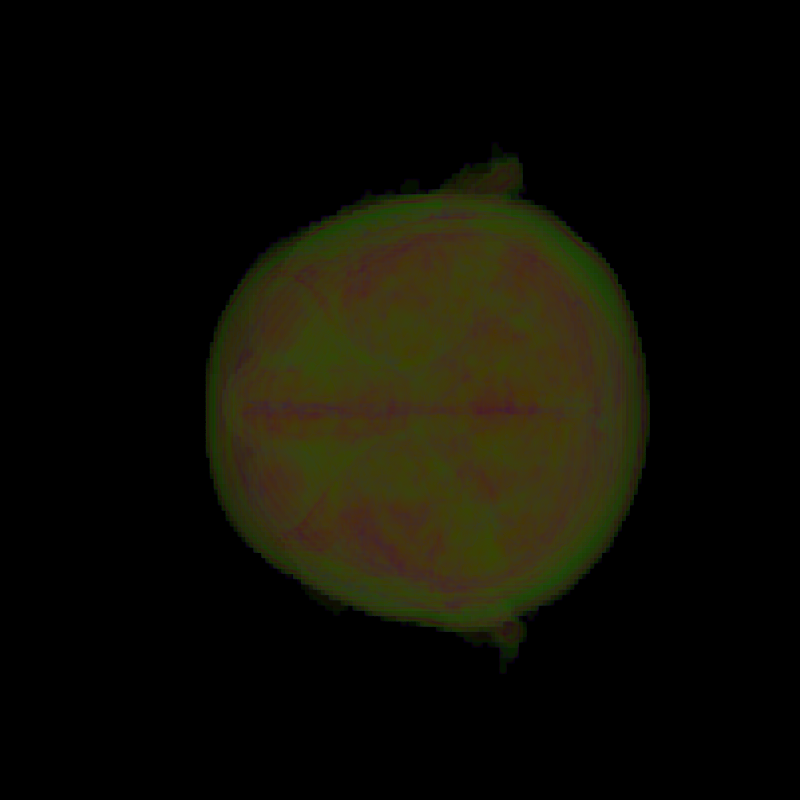
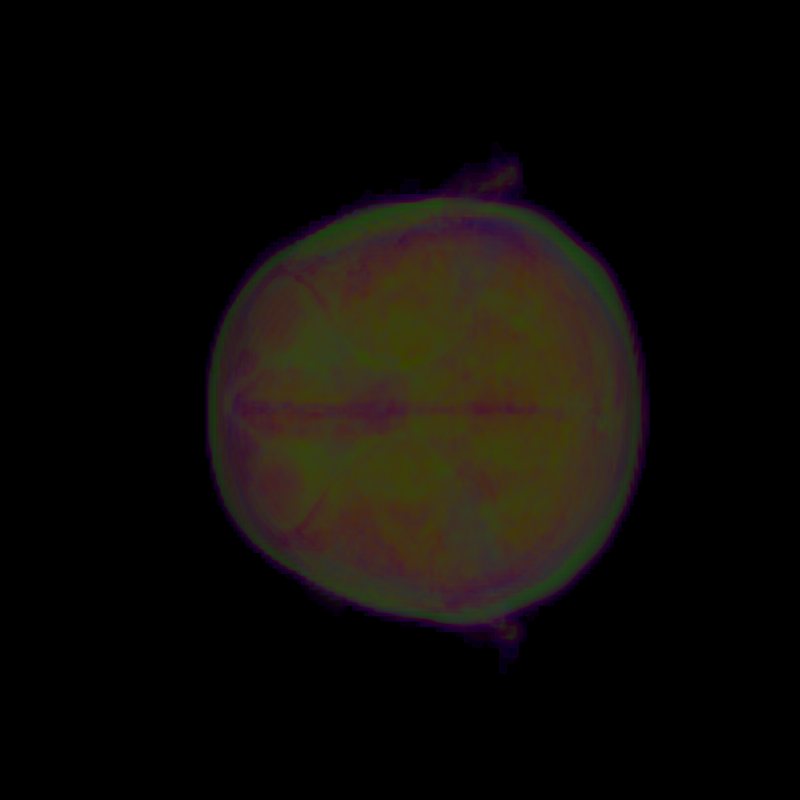
Volume: write color map

diff --git a/pov.m b/pov.m
@@ -385,7 +385,7 @@ classdef pov < handle
             end
 
             % Write
-            [npoints, psize] = size(points);
+            [npoints, ~] = size(points);
             fprintf(o.fh, 'lathe { %s %d,\n', spline_type, npoints);
 
             for i=1:npoints
@@ -573,7 +573,7 @@ classdef pov < handle
             o.union_end();
         end
 
-        % Volume via ext3
+        % Volume via df3
         function volume(o, varargin)
             % Parse
             p = inputParser;
@@ -589,6 +589,7 @@ classdef pov < handle
             addParameter(p,'variance',     0.001,         @o.density_file);
             addParameter(p,'density_file', 'volume',      @o.check_string);
             addParameter(p,'interpolate',  1,             @o.check_positive_int);
+            addParameter(p,'color_map',    [1 1 1 1]                           ); % TODO: Check dimensions
             addParameter(p,'scale',        [1 1 1],       @o.check_vector3);
             addParameter(p,'rotate',       [0 0 0],       @o.check_vector3);
             addParameter(p,'translate',    [0 0 0],       @o.check_vector3);
@@ -606,13 +607,14 @@ classdef pov < handle
             variance     = p.Results.variance;
             density_file = p.Results.density_file;
             interpolate  = p.Results.interpolate;
+            color_map    = p.Results.color_map;
             scale        = p.Results.scale;
             rotate       = p.Results.rotate;
             translate    = p.Results.translate;
 
             % Write density file if we have data
             if(~isnan(data))
-                [sx sy sz] = size(data);                
+                [sx,sy,sz] = size(data);
                 fhd = fopen(o.out_dir + "/" + density_file + ".df3", 'w');
                 fwrite(fhd, sx,   'uint16', 'ieee-be');
                 fwrite(fhd, sy,   'uint16', 'ieee-be');
@@ -635,28 +637,26 @@ classdef pov < handle
                           '        variance %0.3f\n'...
                           '            density {\n'...
     	                  '                density_file df3 "%s.df3"\n'...
-                          '                interpolate %d\n'...
-			              '                color_map {\n'...
-   			              '                    [0.00 rgb <0,0,0>]\n'...
-   			              '                    [0.0001 rgb <0,0,1>]\n'...
-   			              '                    [0.003 rgb <1,0,0>]\n'...
-   			              '                    [0.005 rgb <0,1,0>]\n'...
-			              '                    [0.15 rgb <1,0,0>]\n'...
-   			              '                    [0.20 rgb <0,0,1>]\n'...
-   			              '                    [0.20 rgb <1,0,0>]\n'...
-   			              '                    [0.30 rgb <0,1,0>]\n'...
-			              '                    [0.90 rgb <1,0,0>]\n'...
-   			              '                    [1.00 rgb <1,0,0>]}}}}\n\n'...
-                          'box {<0, 0, 0>, <1, 1, 1>\n'...
-                               'pigment { rgbf 1 }\n'...
-                               'interior { vol_interior }\n'...
-                               'hollow\n'],...
+                          '                interpolate %d\n' ...
+                          '                color_map {\n'],...
                           intervals, ratio, samples(1), samples(2), method,...
                           emission(1),   emission(2),   emission(3),...
                           absorption(1), absorption(2), absorption(3),...
                           scattering, confidence, variance, density_file, interpolate);
-
-                          o.write_transforms(scale, rotate, translate);
+            
+            % Write colormap
+            [cms,~] = size(color_map);
+            for c = 1:cms
+                fprintf(o.fh,'                    [%0.4f rgb <%0.2f,%0.2f,%0.2f>]\n', color_map(c,1), color_map(c,2), color_map(c,3), color_map(c,4));
+            end
+            
+            % Write container box
+            fprintf(o.fh,[                                       '}}}}\n\n'...
+                          'box {<0, 0, 0>, <1, 1, 1>\n'...
+                               'pigment { rgbf 1 }\n'...
+                               'interior { vol_interior }\n'...
+                               'hollow\n']);
+            o.write_transforms(scale, rotate, translate);
         end
 
         % CSG:Union

diff --git a/examples/volume.m b/examples/volume.m
@@ -51,7 +51,18 @@ pov.light('location', [100 200 300], 'color', [0.4 0.4 0.4]);
 
 load mri;
 data = squeeze(D);
-pov.volume('data', data, 'density_file', 'test_vol', 'scale', [4 4 1], 'rotate', [ 0 0 0], 'translate', [-2 -2 0]);
+
+color_map = [0.00   0 0 0;
+             0.0001 0 0 1;
+             0.003  1 0 0;
+             0.005  0 0 1;
+             0.15   1 0 0;
+             0.20   0 0 1;
+             0.20   1 0 0;
+             0.30   0 1 0;
+             0.90   1 0 0;
+             1.00   1 0 0];
+pov.volume('data', data, 'density_file', 'test_vol', 'color_map', color_map, 'scale', [4 4 1], 'rotate', [ 0 0 0], 'translate', [-2 -2 0]);
 
 pov.scene_end();
 img = pov.render();
